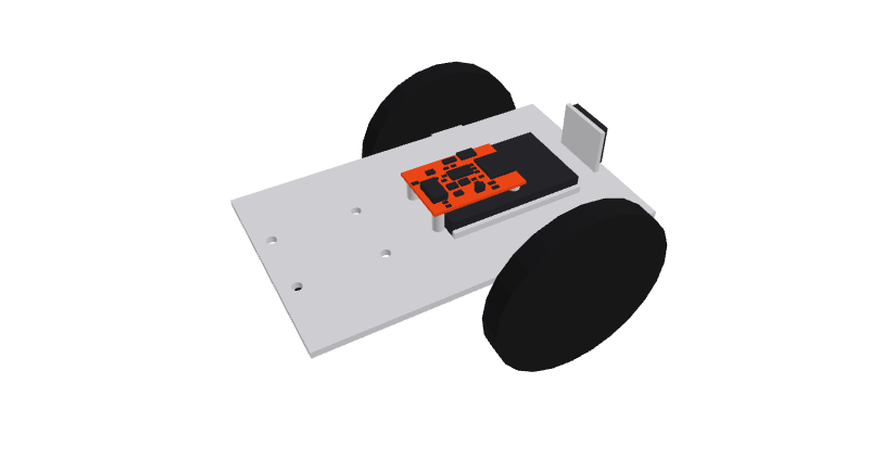
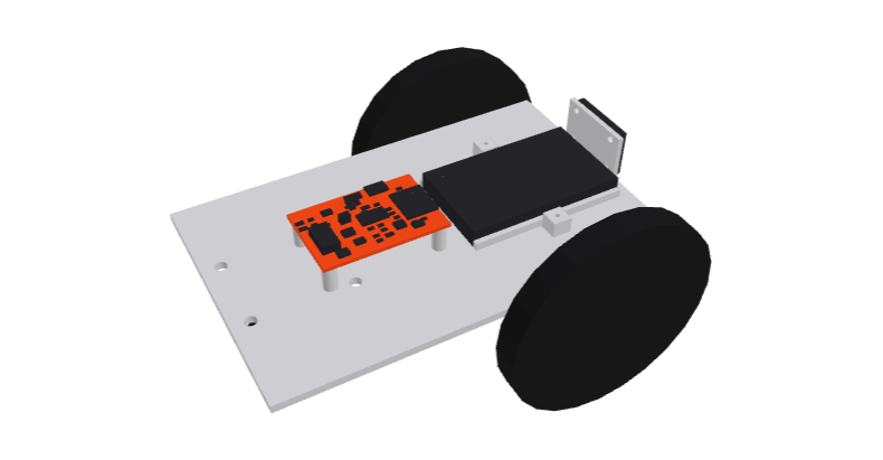
docs(recordings): the Eurobot base's S3 lap in simulation as an animated SVG (the axle's middle, drawn as it went, the verdicts; readme-images.ts --drive), the rover assembled and exploded, and the rover's start-screen still on today's layout

Changed region(s): [[0.1835, 0.0913, 0.8256, 0.913]]

diff --git a/docs/overview.md b/docs/overview.md
@@ -23,8 +23,15 @@ the assembly steps. A change to any of it (a bigger pack, encoders, a servo) wak
   when the encoders needed more pins), wheel encoders in quadrature, an IMU, an emergency stop and a pull-cord start,
   checked against the rules (start perimeter, height, battery). A real-model run (20b) settled and passed its brief
   review.
+<p><img src="img/rover-assembled.png" height="220" alt="The rover: the plate with two wheels, the board on standoffs at the back, the battery pack ahead of it and the distance sensor on its bracket at the front"> <img src="img/rover-exploded.png" height="220" alt="The rover exploded in assembly order"></p>
+
 - **The rover** (`briefs/rover.md`): the reference robot. Its build package (rover-9) prices the whole robot, board
   and bought parts, with the assembly steps.
+<img src="img/eurobot-drive.svg" width="420" alt="Top-down view of the simulated course: the Eurobot base's own S3 firmware drives a 600 by 400 mm lap in the physics model and returns to 12 mm from its start; every segment passes">
+
+<sub>The Eurobot base's S3 firmware in QEMU driving the MuJoCo model: a 600 × 400 mm lap by odometry and the gyro, the
+axle's middle drawn as it went (recaptured by <code>npx tsx scripts/readme-images.ts --drive &lt;drive folder&gt; &lt;name&gt;</code>).</sub>
+
 - **Simulated as built**: the robot's own firmware runs in Espressif's QEMU (RISC-V for the C3, Xtensa for the S3) and
   drives a MuJoCo model of the chassis, with the gyro and the encoders it really has. The Eurobot base's S3 drives a
   600 × 400 mm lap and ends 12 mm from its start; its ROS 2 package passes its acceptance test on that simulation.
